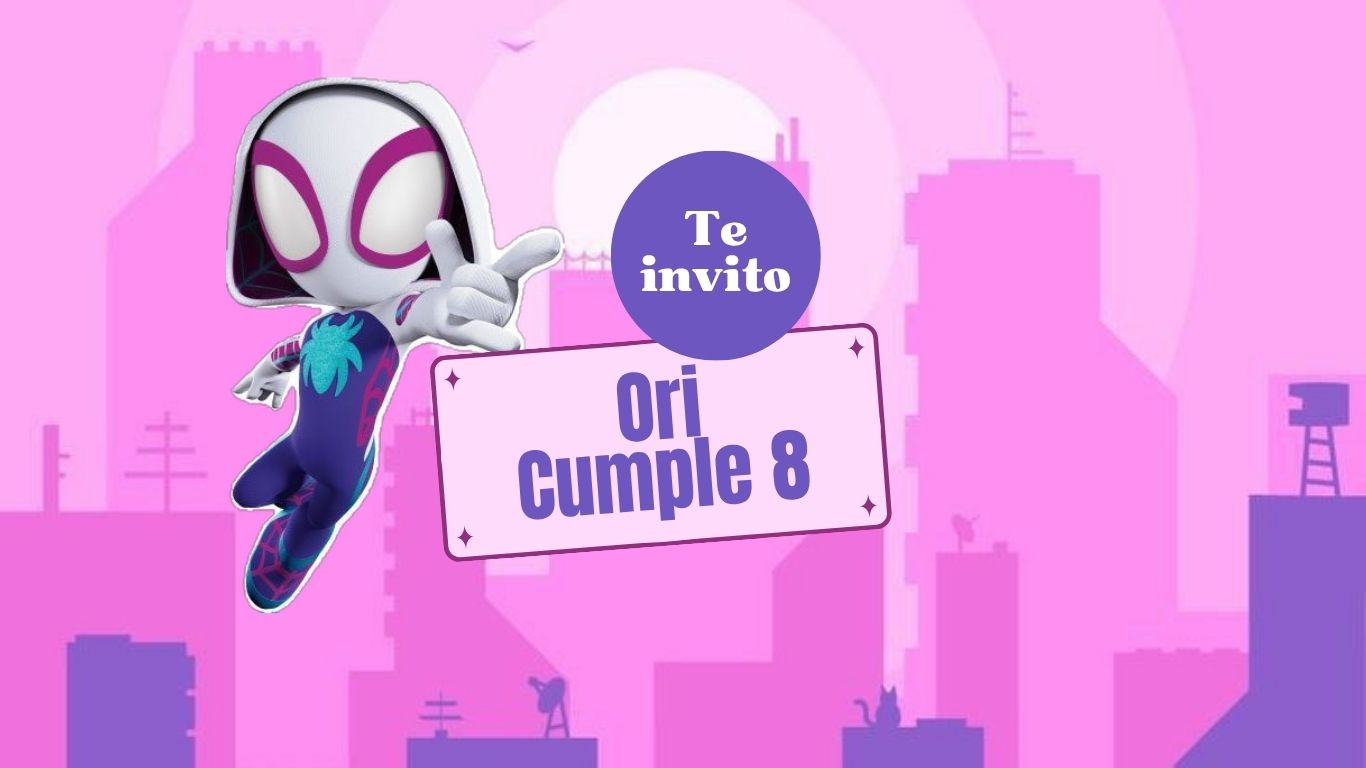
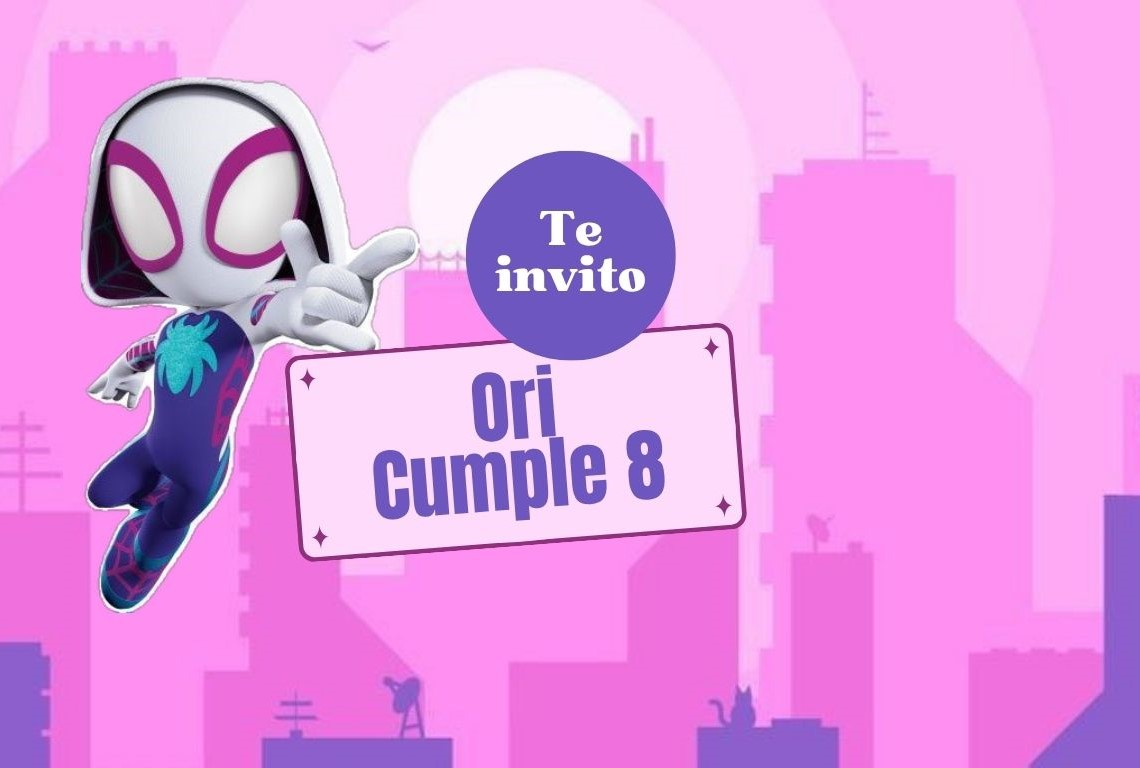
header

diff --git a/style.css b/style.css
@@ -1,12 +1,23 @@
- header {
-            position: relative;
-        }
-        .header-text {
-            position: absolute;
-            top: 60%;
-            left: 60%;
-            transform: translate(-50%, -50%);
-            color: rgb(101, 22, 248);
-            font-size: 5rem;
-            text-shadow: 2px 2px 4px rgba(0, 0, 0, 0.5);
-        }
+  body, html {
+      margin: 0;
+      padding: 0;
+    }
+    .hero-header {
+      position: relative;
+      width: 100vw;
+      height: 100vh;
+      overflow: hidden;
+    }
+    .hero-header img {
+      width: 100%;
+      height: 100%;
+      max-height: 80%;
+      object-fit: cover;
+      object-position: left;
+      display: block;
+    }
+    /* Opcional: para que el resto del contenido empiece después del header */
+    section {
+      min-height: 100vh;
+      background: #fff;
+    }

diff --git a/index.html b/index.html
@@ -32,12 +32,13 @@
 
 
 <!-- Header con foto y nombre -->
- <header >
-   <img src="assets/Oriana-bg.jpg" class="img-fluid w-100" alt="Fiesta de Oriana">
-        <!-- <div class="header-text">
-            <h1 class="m-0">Ori Cumple 8</h1>
-        </div> -->
-</header>
+  <header class="hero-header">
+    <img src="assets/Oriana-bg.jpg" class="img-fluid" alt="Fiesta de Oriana">
+  </header>
+  <section>
+    <h1>¡Bienvenidos a la fiesta!</h1>
+    <p>Más contenido aquí...</p>
+  </section>
 
 <!-- Cuenta regresiva -->
 <section class=" text-center mt-0 w-100" style="background-color:#fdcae1;">
